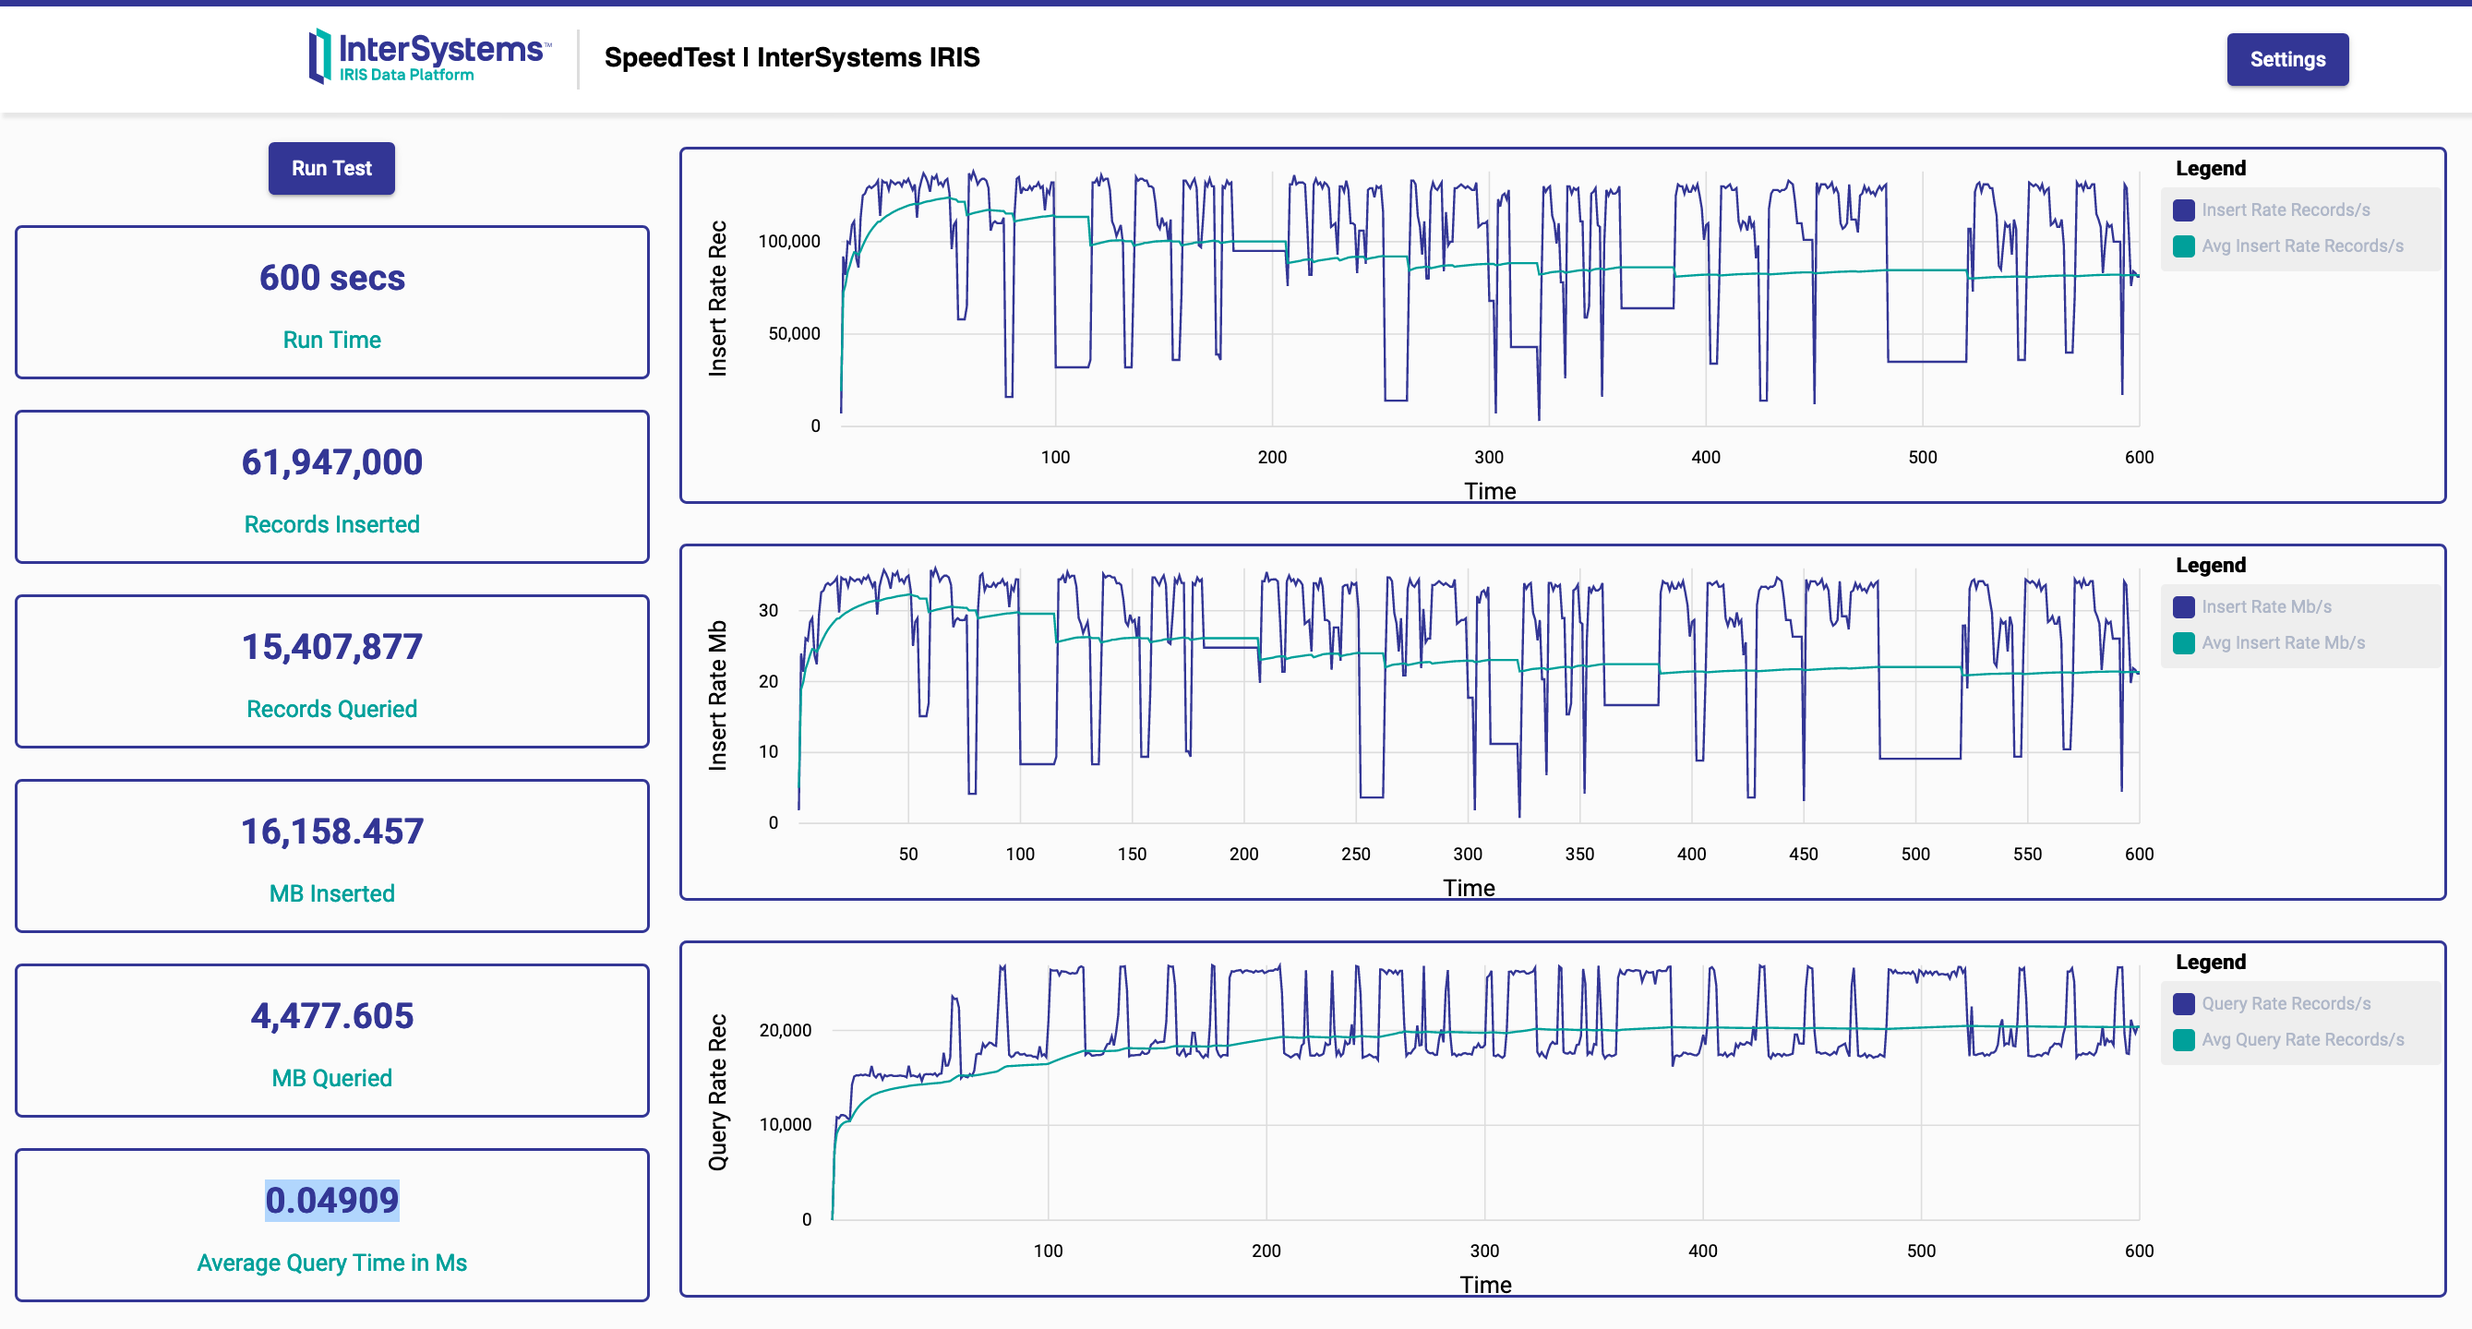
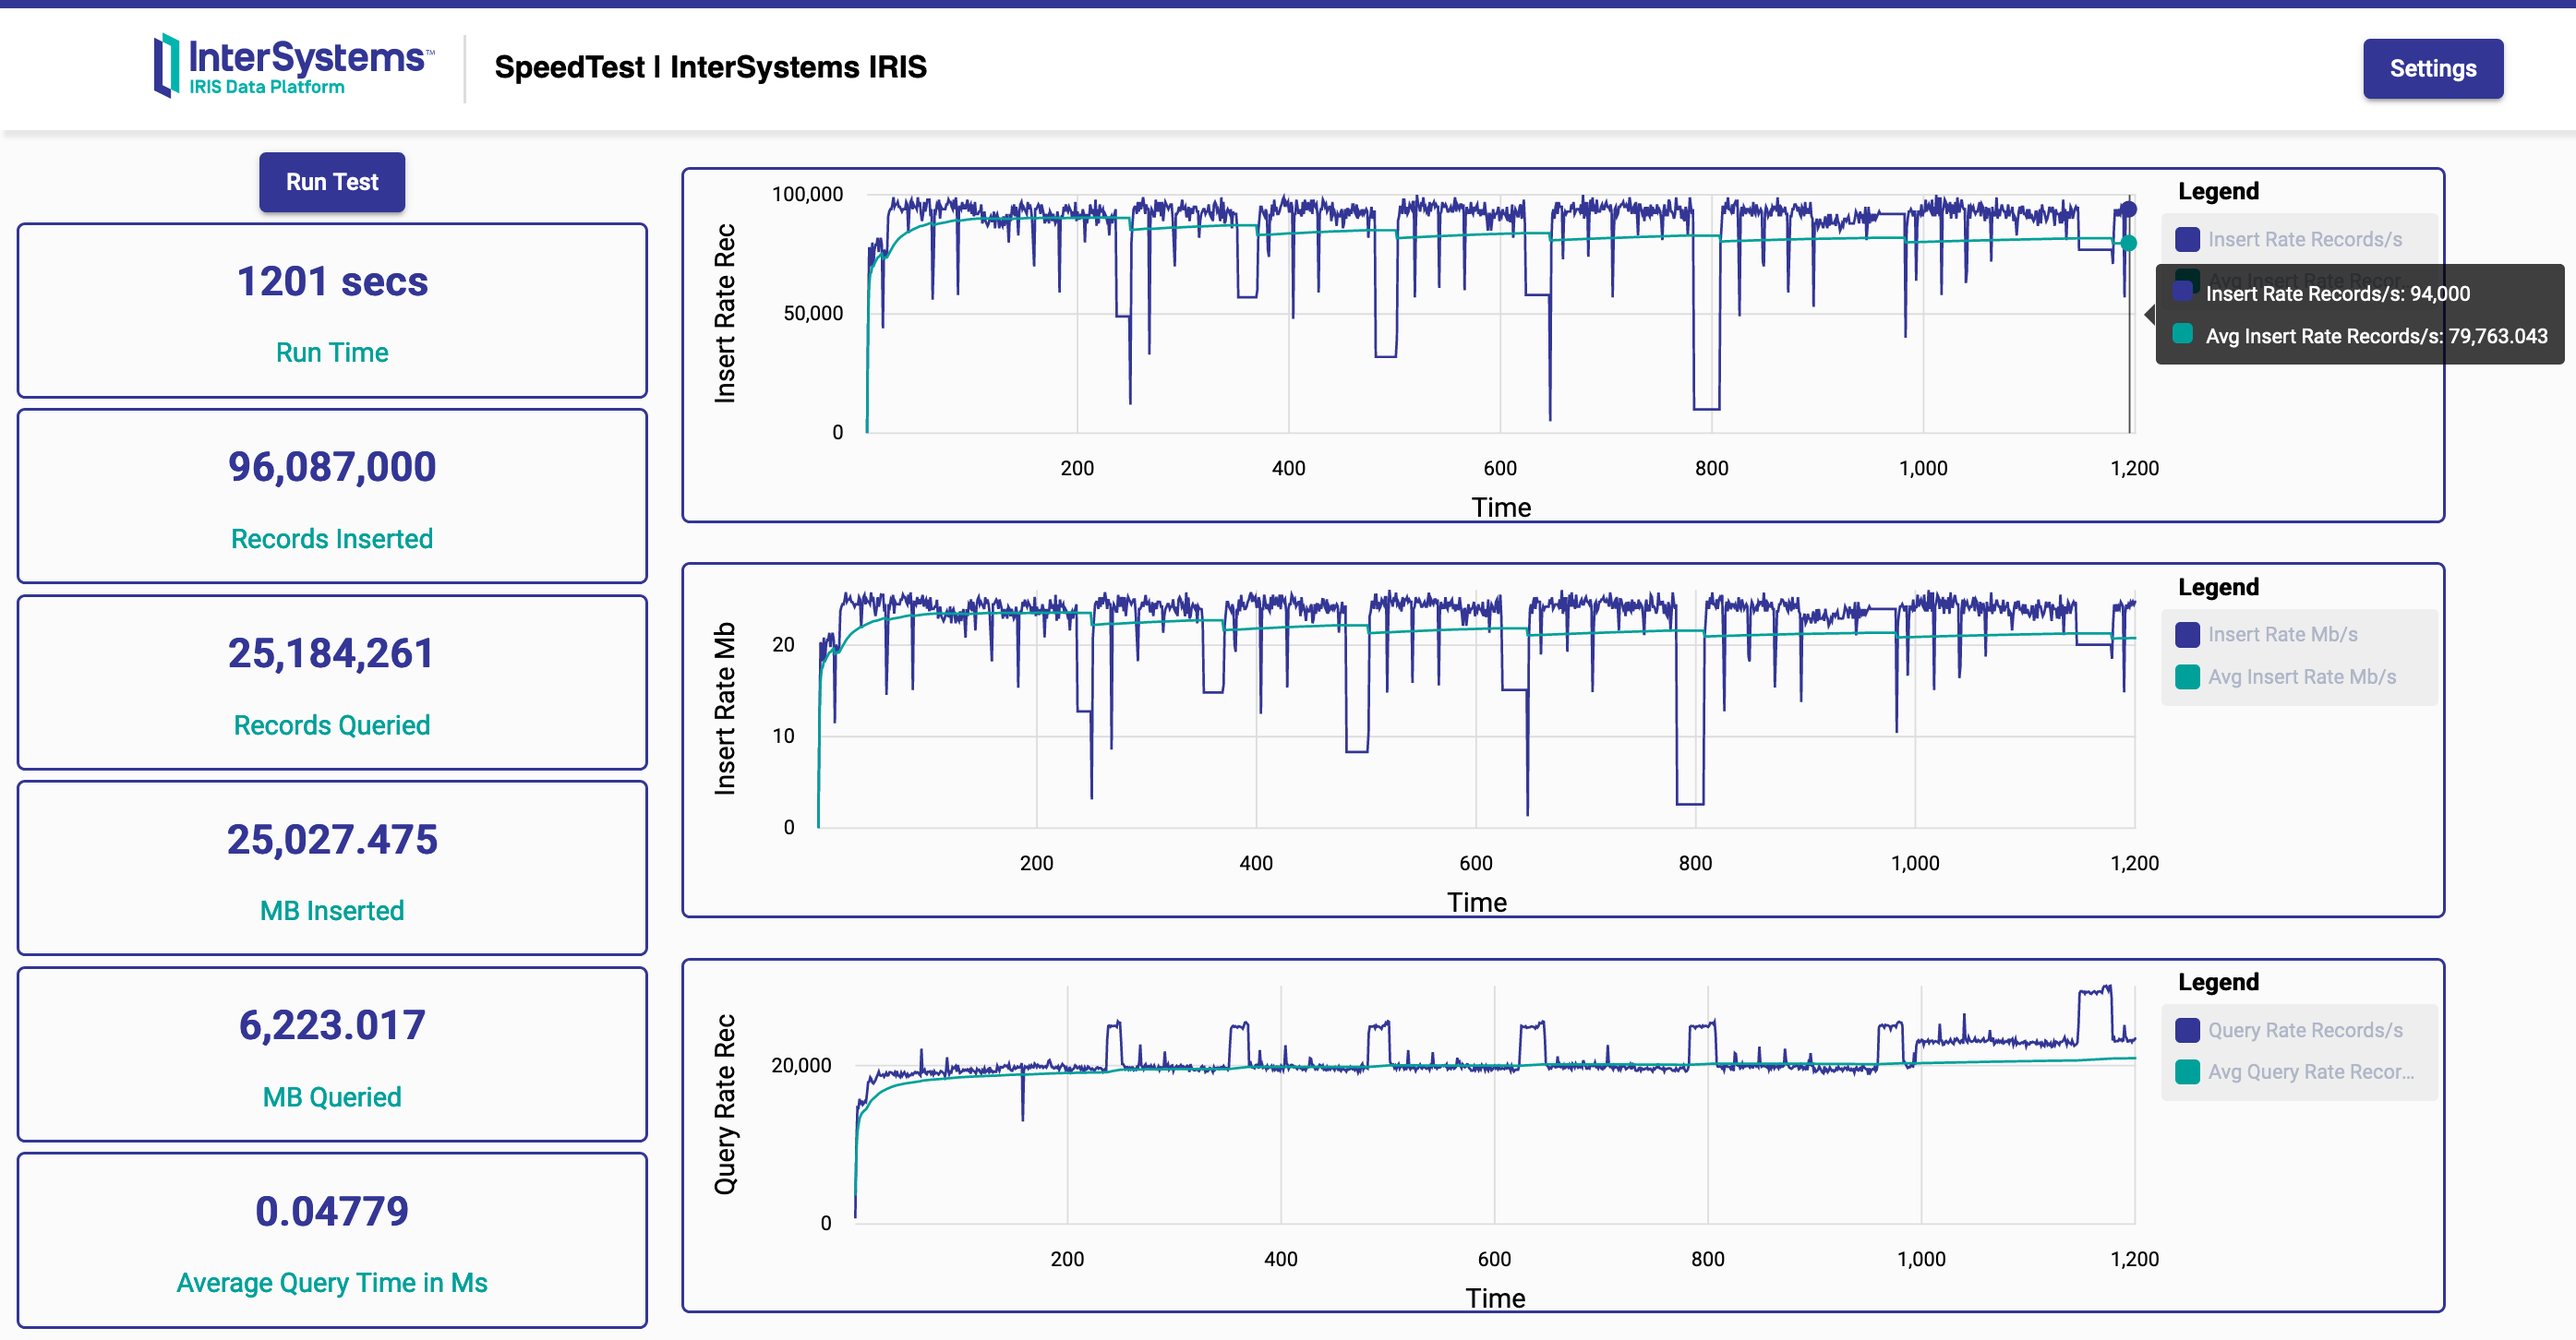
Final results for SAP HANA

Changed region(s): [[0.0, 0.0, 1.0, 1.0], [0.6509, 0.2812, 0.6819, 0.3125]]

diff --git a/ICM/DOC/IRIS_x_SAPHANA.md b/ICM/DOC/IRIS_x_SAPHANA.md
@@ -112,9 +112,7 @@ Run the **deployiris.sh** script. It deploys InterSystems IRIS for you:
 
 This script will make ICM copy the IRIS install kit to the machine on AWS and install it. So depending on your network, it may be very fast or take longer. On my PC, running from the office, it took 3 minutes.
 
-When done, you will notice that ICM will write on the screen the URL for the management portal. Save that. You will be able to open the management portal using the user **SuperUser** and the password **sys**. 
-
-If you open the management portal, you will notice that there is a namespace called SPEEDTEST. This is where the speed test table will be created. You will be able to look at its contents during and after the speed test is run.
+When done, you will notice that ICM will write on the screen the URL for the management portal. Save that. You will be able to open the management portal using the user **SuperUser** and the password **sys**. I actaully used it to open the management portal, navigate to **System > Configuration > Local Databases** and clicked on the SPEEDTEST database. I pre-expanded it to 190000MB.
 
 ## 5 - Deploy the Speed Test for IRIS
 
@@ -364,16 +362,16 @@ Here are my results:
 
 | Database               | Machine   | Run time | Inserts/s ATEOT     | Tot Records Inserted | Avg Queries/s ATEOT | Tot Records Retrieved AEOT | Avg Query Response Time AEOT | CPU %  |
 |------------------------|-----------|----------|---------------------|----------------------|---------------------|----------------------------|------------------------------|--------|
-| InterSystems IRIS 2020 | i3.xlarge | 600s     | 82,161/sec          | 61,947,000           |  20,362/s           | 15,407,877                 | 0.04909ms                    | 30-75% |
-| SAP HANA Express 2.0   | i3.xlarge | 601s     | 59,000/sec          | 66,006,000           |  836/s              | 913,535                    | 1.22403ms                    | 50-78% |
+| InterSystems IRIS 2020 | i3.xlarge | 1200s    | 79,763rec/s         | 96,087,000           | 20.915rec/s         |  25,184,261                | 0.04779                      | 30-75% |
+| SAP HANA Express 2.0   | i3.xlarge | 1201s    | 57,962rec/s         | 69,062,000           | 546.013 rec/s       |  657,775                   | 1.81548                      | 50-78% |
 
 **ATEOT = At the end of Test. Or "sustained" rate.**
 
-Both databases will start with excellent ingestion rates and then they will "degrade" to their sustained performance. The fact that the average ingestion rate at the beginning of the test is so good affects the final average. Example: If you divide 66,006,000 / 601 = 109,826 records/s for SAP HANA. SAP HANA did start with an ingestion rate above 109K records/s, but it stabilized at the end of the test with an ingestion rate of 59K rec/s. So, SAP HANA's sustained avg ingestion rate with this hardware at the end of the test was of ~59K rec/s with poor query responsiveness. IRIS suffered the same problem, but it was operating at 82K records/s instead ATEOT while maintaining query responsiveness.
+Both databases will start with excellent ingestion rates and then they will "degrade" to their **sustained performance**. SAP HANA start with an ingestion rate above 109K records/s, but it stabilized at the end of the test with an ingestion rate of ~57K rec/s with poor query responsiveness during the entire test. IRIS suffered the same problem, but it was operating at ~79KK records/s ATEOT (37.61% faster) while maintaining much better query responsiveness during the entire test (3730% faster).
 
-**The conclusion is that:**
-* InterSystems IRIS is 1.392x faster than SAP HANA at ingestion (39.25% faster)
-* Intersystems IRIS is 24.93x faster than SAP HANA at querying (2393% faster!)
+**The conclusion is that, on this ingestion x query stress test:**
+* InterSystems IRIS is 37.61% faster than SAP HANA at ingestion
+* Intersystems IRIS is 3730% faster than SAP HANA at querying
 
 ## 9 - Unprovision everything
 
@@ -396,8 +394,14 @@ After ICM is done, make sure you:
 
 ## 10 - Screenshots
 
-Here is the end result of SAP HANA's test:
+Here is the end result of InterSystems IRIS test with emphasis on the graph for Ingestion rate AEOT:
+![InterSystems IRIS Results](https://raw.githubusercontent.com/intersystems-community/irisdemo-demo-htap/master/ICM/DOC/IRIS_x_SAPHANA1.png?raw=true)
+
+Here is the end result of InterSystems IRIS test with emphasis on the graph for Query rate AEOT:
 ![InterSystems IRIS Results](https://raw.githubusercontent.com/intersystems-community/irisdemo-demo-htap/master/ICM/DOC/IRIS_x_SAPHANA2.png?raw=true)
 
-Here is the end result of InterSystems IRIS test:
-![InterSystems IRIS Results](https://raw.githubusercontent.com/intersystems-community/irisdemo-demo-htap/master/ICM/DOC/IRIS_x_SAPHANA1.png?raw=true)
+Here is the end result of SAP HANA test with emphasis on the graph for Ingestion rate AEOT:
+![InterSystems IRIS Results](https://raw.githubusercontent.com/intersystems-community/irisdemo-demo-htap/master/ICM/DOC/IRIS_x_SAPHANA3.png?raw=true)
+
+Here is the end result of SAP HANA test with emphasis on the graph for Query rate AEOT:
+![InterSystems IRIS Results](https://raw.githubusercontent.com/intersystems-community/irisdemo-demo-htap/master/ICM/DOC/IRIS_x_SAPHANA4.png?raw=true)
